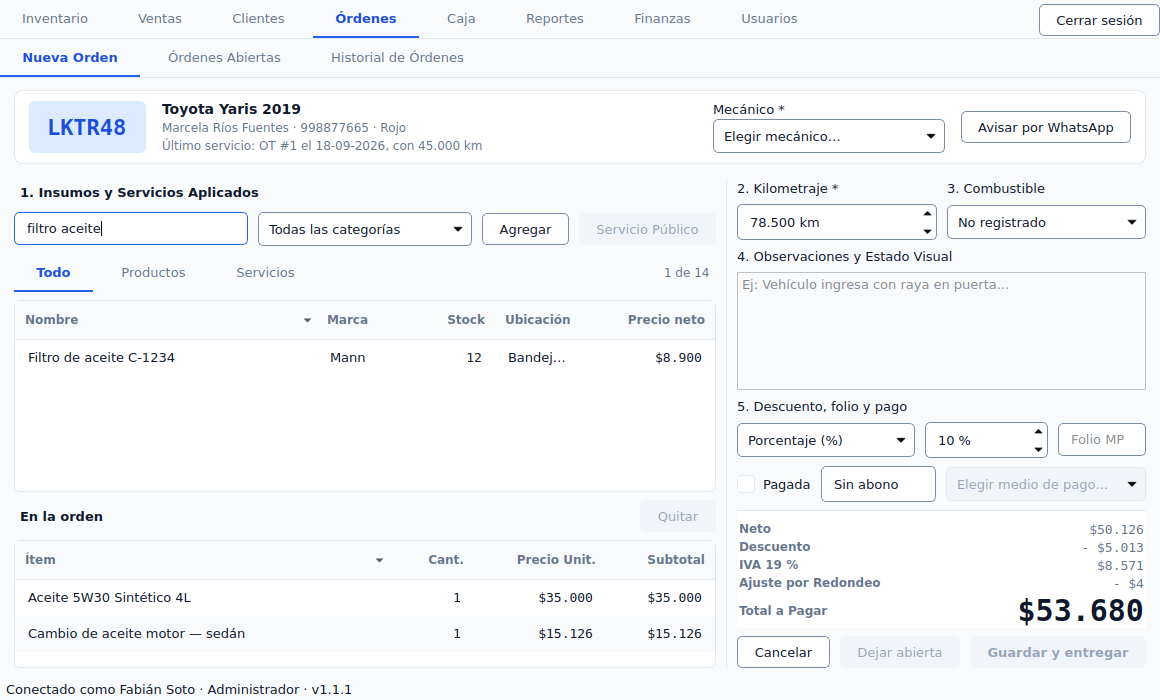
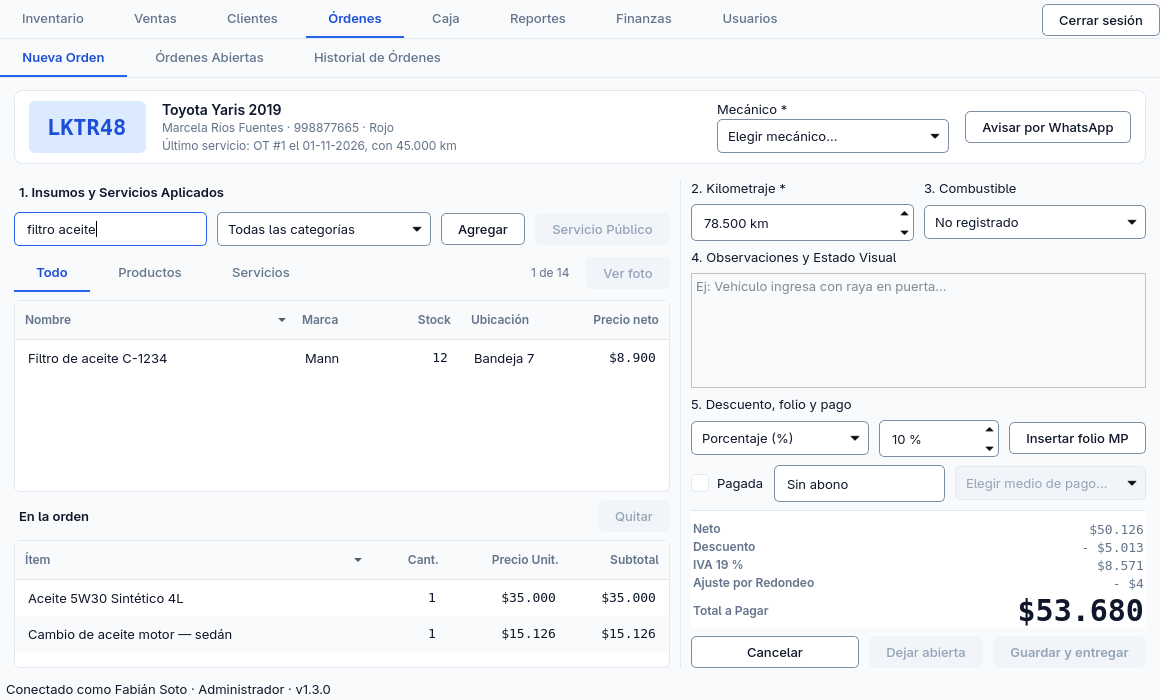
docs: manuals for photos, counter discounts and error capture

diff --git a/docs/manuales/manual-usuario.tex b/docs/manuales/manual-usuario.tex
@@ -120,6 +120,40 @@ cuánto (sin IVA) y quién lo cambió. No mueven stock, así que no traen cantid
 ni saldo. El historial empieza con esta versión del sistema; los cambios
 anteriores no quedaron registrados.
 
+Cuando la ventana es ancha ---maximizada en el computador del taller---, a la
+derecha de la tabla aparece la \textbf{foto del producto elegido}, con su marca,
+la repisa, el precio con IVA y el stock. En una ventana angosta la foto no cabe
+y se oculta, para no apretar el nombre; se sigue viendo al editar el producto.
+
+\subsection{La foto del producto}
+\label{sec:foto}
+
+\dialogo{dialogo_producto}{Ficha del producto, con su foto a la derecha.}
+
+La foto sirve para confirmar que el producto es el que se tiene en la mano:
+hay filtros que se llaman casi igual y solo se distinguen por la caja. Cada
+producto tiene una sola foto. La cargan el supervisor y el administrador, en la
+ficha del producto (\textbf{Nuevo producto} o \textbf{Editar}):
+
+\begin{enumerate}
+  \item Buscar la imagen del producto en internet, con Chrome.
+  \item Clic derecho sobre la imagen y \textbf{Copiar imagen} (no ``Copiar
+        dirección de la imagen'': eso copia un texto, y el sistema avisa que no
+        es una imagen).
+  \item En la ficha, \textbf{Pegar imagen}. También sirve hacer clic en el
+        recuadro de la foto y apretar Ctrl+V.
+  \item \textbf{Guardar}. La foto se guarda junto con el producto.
+\end{enumerate}
+
+Si la imagen ya está descargada, \textbf{Elegir archivo\ldots} la busca en el
+computador, o se puede arrastrar el archivo hasta el recuadro. \textbf{Quitar
+foto} la saca. El sistema achica la imagen por su cuenta, así que da lo mismo
+lo grande que venga. Si el archivo no es una imagen o viene en un formato que
+el sistema no lee, avisa y deja la foto que había.
+
+La foto se ve en Inventario, al recibir mercadería y, en Ventas y Órdenes, al
+pasar el mouse por el producto o con el botón \textbf{Ver foto}.
+
 \subsection{Recibir mercadería}
 
 \dialogo{dialogo_ingreso}{Ingreso de mercadería: se arma la lista y se confirma
@@ -127,9 +161,12 @@ una sola vez.}
 
 \begin{enumerate}
   \item \textbf{Ingresar Mercadería}.
-  \item Buscar el producto. Al elegirlo, \textbf{Costo unit.}, \textbf{Venta
-        neto} y \textbf{Ubicación} se llenan solos con lo que el producto
-        tiene hoy.
+  \item Buscar el producto en la lista de arriba, que muestra la marca, el
+        stock y la repisa, y elegir su fila. A la derecha aparece su foto:
+        es el momento de confirmar que es el que llegó. Al elegirlo,
+        \textbf{Costo unit.}, \textbf{Venta neto} y \textbf{Ubicación} se
+        llenan solos con lo que el producto tiene hoy. Con Enter en el buscador
+        se elige el producto y el cursor pasa a la cantidad.
   \item Poner la cantidad que llegó y, \textbf{si el proveedor cambió el
         precio}, corregir el costo. Si hay que subir el precio de venta, se
         corrige ahí mismo: es sin IVA, y al lado se ve lo que paga el cliente.
@@ -218,6 +255,7 @@ la planilla, casi siempre es porque un archivo con ese mismo nombre está
 abierto en Excel: se cierra y se exporta de nuevo.
 
 \subsection{Stock mínimo por categoría}
+\label{sec:minimos}
 
 \dialogo{dialogo_minimos}{El mínimo de toda una categoría, de una vez.}
 
@@ -241,10 +279,19 @@ producto puntual puede tener después su propio mínimo, editándolo.
   \item Elegir el \textbf{medio de pago}: efectivo, tarjeta o transferencia.
         También es obligatorio y viene sin elegir a propósito: la caja cuenta
         como plata del cajón solo lo cobrado en efectivo.
+  \item Si corresponde, un \textbf{Descuento}: \emph{Porcentaje (\%)} o
+        \emph{Monto (\$)}, como en las órdenes. Los convenios (flyer y gremio)
+        son solo de las órdenes.
   \item \textbf{Generar Venta}.
 \end{enumerate}
 
-El pie muestra el neto, el IVA y el total. Al cobrar, el stock baja solo y queda
+El pie muestra el neto, el descuento si lo hay, el IVA y el total. El
+descuento en pesos no puede ser mayor que la venta: si se quitan productos del
+carrito y el monto queda más grande que lo que queda, el sistema lo baja y lo
+avisa. Para revisar un producto antes de agregarlo, su foto se ve al pasar el
+mouse por la fila o con \textbf{Ver foto} (sección~\ref{sec:foto}).
+
+Al cobrar, el stock baja solo y queda
 la salida en el Kardex. Si entremedio alguien vendió lo último que quedaba, el
 sistema lo avisa y no deja cobrar de más.
 
@@ -582,10 +629,11 @@ reabastecimiento:
   \item \textbf{Por mecánico}: cuántas órdenes trabajó cada mecánico y por
         cuánto. Las órdenes anteriores al registro de mecánicos salen como
         ``Sin asignar''.
-  \item \textbf{Órdenes con descuento}: cada orden que llevó descuento
-        —general, flyer o gremio—, quién la ingresó, cuánto se descontó y el
-        total. Con ``Mes pasado'' es el reporte mensual. Doble clic sobre una
-        fila abre la orden.
+  \item \textbf{Descuentos}: cada orden y cada venta de mostrador que llevó
+        descuento —general, flyer o gremio—, quién la ingresó, cuánto se
+        descontó y el total. La columna \emph{Documento} dice si fue una orden
+        (OT) o una boleta. Con ``Mes pasado'' es el reporte mensual. Doble clic
+        sobre una fila abre la orden o la venta.
   \item \textbf{Público vs Mercado Público}: cuánto entró del público general
         ---ventas de mostrador y órdenes sin folio--- y cuánto de Mercado
         Público ---órdenes con folio---, día por día o mes por mes según el
@@ -596,7 +644,7 @@ reabastecimiento:
   \item \textbf{Reabastecimiento}: qué hay que reponer. Solo cuenta los
         productos que tienen mínimo; arriba dice cuántos no lo tienen. Si la
         lista sale vacía y ese número es alto, falta fijar mínimos
-        (sección 2.4).
+        (sección~\ref{sec:minimos}).
 \end{itemize}
 
 \pantalla{reabastecimiento}{Reabastecimiento: los productos en su mínimo o por
@@ -747,7 +795,7 @@ Puede estar desactivado. En Inventario se ve en gris y su fila lo dice.
 \subsection*{Aparecen muchos productos como ``stock crítico''}
 El mínimo empieza en cero para todo lo que vino del sistema anterior, así que
 cualquier producto sin stock figura como crítico. Se corrige fijando los mínimos
-por categoría (sección 2.4).
+por categoría (sección~\ref{sec:minimos}).
 
 \subsection*{Guardé una orden y el auto todavía no estaba listo}
 
@@ -771,5 +819,17 @@ del sistema anterior no traen el detalle de cómo se pagaron, así que no suman.
 
 \subsection*{El sistema dice que no se pudo conectar a la base de datos}
 Es un problema de instalación, no de uso. Está en el Manual técnico.
+
+\subsection*{Apareció un aviso de ``error inesperado''}
+Lo que se estaba haciendo no se guardó: hay que revisarlo y volver a
+intentarlo. Si el aviso habla de la \textbf{conexión con la base de datos}, el
+servidor se detuvo y hay que avisar a quien mantiene el sistema. En cualquier
+caso, el detalle queda en el archivo \texttt{errores.log}, en la carpeta del
+programa: es lo que hay que enviarle a quien da soporte.
+
+\subsection*{Pegué la foto y dice que no es una imagen}
+Se copió la dirección de la imagen y no la imagen. En Chrome, clic derecho sobre
+la foto y \textbf{Copiar imagen}. Si tampoco funciona, guardarla en el
+computador y usar \textbf{Elegir archivo\ldots}.
 
 \end{document}

diff --git a/docs/manuales/manual-tecnico.tex b/docs/manuales/manual-tecnico.tex
@@ -262,6 +262,14 @@ El cliente de OneDrive sube solo lo que cae en su carpeta, así que con copiar e
 archivo basta. Si la carpeta no existe, el script avisa y el respaldo local
 igual queda hecho.
 
+Desde la versión 1.3.0, \textbf{en OneDrive también se conservan solo los
+últimos 30}. Antes se acumulaban todos, y con las fotos de los productos cada
+respaldo pesa entre 25 y 30\,KB por foto: unos 13\,MB con 500 fotos. Solo se
+borran archivos \texttt{lubriexpress-*.sql.gz}; lo demás que haya en esa carpeta
+no se toca. Si OneDrive tiene bloqueado un archivo porque lo está subiendo, el
+script lo salta, lo avisa y lo borra en el respaldo siguiente: el respaldo
+nunca falla por eso.
+
 \texttt{respaldar.exe --listar} muestra lo que hay guardado.
 
 Si PostgreSQL no está instalado en el equipo sino dentro de un contenedor de
@@ -280,6 +288,19 @@ restaurar.exe respaldos\lubriexpress-20260916-2030.sql.gz
 \textbf{Pisa la base entera.} Por eso pide escribir el nombre de la base para
 confirmar. Conviene probar una restauración al menos una vez, contra una base de
 prueba, antes de necesitarla de verdad.
+
+Desde la versión 1.3.0 restaura sobre un esquema limpio y en una sola
+transacción: borra el esquema \texttt{public}, lo vuelve a crear y carga el
+respaldo encima. \textbf{Si algo falla, la base queda exactamente como estaba}
+y el mensaje lo dice. Antes, un respaldo de una versión anterior fallaba (las
+tablas nuevas apuntan a las viejas y no dejaban borrarlas) y, al fallar, dejaba
+la base sin la mitad de sus restricciones. Por lo mismo, el usuario de
+\texttt{DATABASE\_URL} tiene que poder borrar el esquema \texttt{public}; en el
+taller es \texttt{postgres}, que puede.
+
+Un respaldo de una versión anterior queda con su esquema viejo. Al terminar,
+\texttt{restaurar.exe} lo detecta y avisa que hay que correr
+\texttt{actualizar.exe} antes de abrir el programa.
 
 \subsection{Dejarlo automático}
 
@@ -459,6 +480,36 @@ los reportes. El sistema no depende de \texttt{openpyxl} ni de otra biblioteca
 de Excel, y no conviene agregarla: el ejecutable tendría que empaquetarla y la
 del repositorio ya alcanza para una hoja sin estilos.
 
+\subsection{La versión 1.3.0: fotos, descuento en ventas y captura de errores}
+
+Agrega la foto de cada producto, el descuento en las ventas de mostrador y un
+aviso para los errores inesperados. \textbf{Cambia el esquema}, así que el orden
+es el de siempre: primero \texttt{actualizar.exe} y después la aplicación nueva.
+Los pasos son dos:
+
+\begin{itemize}
+  \item \texttt{ventas.descuento}: agrega a las ventas el subtotal, el
+        porcentaje y el monto de descuento, con las mismas restricciones de las
+        órdenes (porcentaje o monto, nunca los dos, y nunca más que la venta).
+        A las ventas que ya existen les deja su neto como subtotal, que es
+        exacto porque ninguna tenía descuento.
+  \item \texttt{fotos\_producto}: la tabla de las fotos, una por producto.
+        Va aparte de \texttt{productos} para que ninguna consulta del catálogo
+        arrastre las imágenes.
+\end{itemize}
+
+Las fotos se guardan \textbf{dentro de la base}, achicadas a 480\,px en JPEG
+(\texttt{src/fotos.py}), así que entran solas en el respaldo y en la
+restauración. Cada una suma entre 25 y 30\,KB a cada respaldo diario; por eso
+OneDrive pasa a conservar solo los últimos 30 (sección de respaldos).
+
+\textbf{Errores inesperados.} Lo que falle sin estar previsto ya no se pierde: la
+aplicación muestra un solo aviso ---``se perdió la conexión con la base de
+datos'' si el servidor se detuvo--- y anota el detalle, con fecha, en
+\texttt{errores.log}, junto al ejecutable. El archivo tiene tope: al pasar de
+512\,KB conserva la mitad más nueva. Es lo primero que hay que pedir cuando
+alguien reporta un problema.
+
 \section{Problemas frecuentes}
 
 \subsection*{``No se pudo conectar usando DATABASE\_URL''}
@@ -477,6 +528,19 @@ con el \texttt{.spec} del repositorio.
 Se guardan en la carpeta \emph{Documentos} \textbf{del usuario que tiene la
 sesión de Windows abierta}, en \texttt{Documentos\textbackslash Lubri-Express}.
 Si hay varias cuentas en el equipo, cada una tiene la suya.
+
+\subsection*{Apareció un aviso de error inesperado}
+El detalle está en \texttt{errores.log}, junto al ejecutable: la fecha, el error y
+dónde ocurrió. Si dice \texttt{OperationalError}, el servicio de PostgreSQL se
+detuvo o la red se cortó; se revisa como el problema de conexión de arriba.
+
+\subsection*{Una foto no se carga}
+Pegar con Ctrl+V necesita que en Chrome se haya usado \emph{Copiar imagen}, no
+\emph{Copiar dirección de la imagen}. Los archivos \texttt{.webp} se leen; si un
+\texttt{.webp} no abre en el ejecutable, falta el plugin \texttt{qwebp} en
+\texttt{\_internal\textbackslash PySide6\textbackslash Qt\textbackslash
+plugins\textbackslash imageformats\textbackslash}: rehacer el empaquetado con el
+\texttt{.spec} del repositorio.
 
 \subsection*{El stock no cuadra con la repisa}
 Se corrige contando, con \textbf{Ajustar stock} (queda registrado en el Kardex).

diff --git a/docs/manuales/capturas.py b/docs/manuales/capturas.py
@@ -215,8 +215,33 @@ def sembrar() -> dict:
                 "servicio_publico": db.query(Servicio).filter(Servicio.precio_variable.is_(True)).first().id}
 
 
+def foto_de_fantasia():
+    """Una botella dibujada: las fotos de verdad tienen marca y derechos."""
+    from PySide6.QtCore import QRectF, Qt
+    from PySide6.QtGui import QColor, QFont, QImage, QPainter
+
+    imagen = QImage(400, 400, QImage.Format_RGB32)
+    imagen.fill(QColor("#F1F5F9"))
+    pintor = QPainter(imagen)
+    pintor.setRenderHint(QPainter.Antialiasing)
+    pintor.setPen(Qt.NoPen)
+    pintor.setBrush(QColor("#1D4ED8"))
+    pintor.drawRoundedRect(QRectF(130, 60, 140, 300), 24, 24)
+    pintor.drawRect(QRectF(170, 30, 60, 40))
+    pintor.setBrush(QColor("#FFFFFF"))
+    pintor.drawRoundedRect(QRectF(145, 160, 110, 110), 10, 10)
+    pintor.setPen(QColor("#0F172A"))
+    pintor.setFont(QFont("DejaVu Sans", 22, QFont.Bold))
+    pintor.drawText(QRectF(145, 160, 110, 110), Qt.AlignCenter, "5W30\n4 L")
+    pintor.end()
+    return imagen
+
+
 def capturar(datos: dict) -> None:
-    from src.ui import LoginDialog, VentanaPrincipal
+    from PySide6.QtCore import Qt
+
+    from src.fotos import guardar as guardar_foto, leer, preparar
+    from src.ui import FormularioProducto, LoginDialog, VentanaPrincipal
     from src.ui.carga_excel import CargaExcelDialog
     from src.ui.clientes import FormularioVehiculo
     from src.ui.inventario import AjusteStockDialog, IngresoMercaderiaDialog, MinimoPorCategoriaDialog
@@ -230,14 +255,26 @@ def capturar(datos: dict) -> None:
     guardar(login, "login")
     login.close()
 
+    with SessionLocal() as db:
+        if leer(db, datos["producto"]) is None:
+            guardar_foto(db, datos["producto"], preparar(foto_de_fantasia()))
+            db.commit()
+
     Sesion.iniciar(SimpleNamespace(id=datos["usuario"], nombre="Fabián Soto", rol="ADMINISTRADOR"))
     v = VentanaPrincipal(); v.resize(1160, 700); v.show()
 
-    v.pestanias.setCurrentWidget(v.inventario); v.inventario.tabla.selectRow(0)
+    # Ancha, como en el portátil del taller: así cabe la foto al lado de la tabla.
+    v.resize(1366, 720)
+    v.pestanias.setCurrentWidget(v.inventario)
+    fila = next(f for f in range(v.inventario.tabla.rowCount())
+                if v.inventario.tabla.item(f, 0).data(Qt.UserRole) == datos["producto"])
+    v.inventario.tabla.selectRow(fila)
     guardar(v, "inventario")
+    v.resize(1160, 700)
     v.pestanias.setCurrentWidget(v.ventas)
     punto = v.ventas.findChild(PuntoVentaWidget)
     punto.agregar_producto(datos["producto"], cantidad=2)
+    punto.tipo_descuento.setCurrentIndex(1); punto.valor_descuento.setValue(10)
     guardar(v, "ventas")
     v.pestanias.setCurrentWidget(v.clientes); v.clientes.tabla.selectRow(0)
     guardar(v, "clientes")
@@ -300,12 +337,14 @@ def capturar(datos: dict) -> None:
     servicio_publico.descripcion.setText("Mantención 60.000 km")
     servicio_publico.presupuesto.setValue(118400)
     ingreso = IngresoMercaderiaDialog()
-    ingreso.combo_productos.setCurrentIndex(0)
+    ingreso.catalogo.busqueda.setText("5W30")
+    ingreso.catalogo.tabla.selectRow(ingreso.catalogo.visibles()[0])
     ingreso.spin_cantidad.setValue(12)
     ingreso.spin_costo.setValue(21500)   # el proveedor subió el precio
     ingreso.agregar_a_lista()
 
     for nombre, dialogo in [
+        ("dialogo_producto", FormularioProducto(producto_id=datos["producto"])),
         ("dialogo_ingreso", ingreso),
         ("dialogo_ajuste", AjusteStockDialog(producto_id=datos["producto"])),
         ("dialogo_minimos", MinimoPorCategoriaDialog()),
